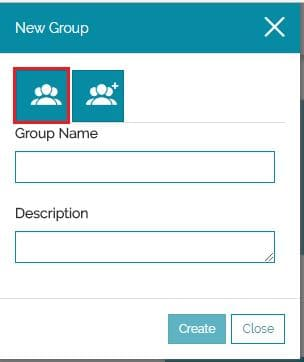
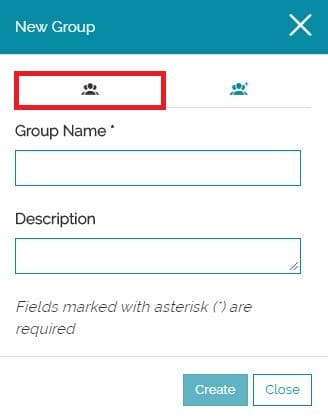
4643 groups managing

Changed region(s): [[0.0, 0.0, 1.0, 1.0], [0.6809, 0.1823, 0.7697, 0.2431]]

diff --git a/docs/user-guide/managing-groups.md b/docs/user-guide/managing-groups.md
@@ -1,22 +1,45 @@
 # Managing Groups
 *****************
 
-Creating New Group
-------------------
+The Groups Manager section displays like the following:
 
-From the *Groups* page:
+<img src="../img/managing-groups/groups-man.jpg" class="ms-docimage"  style="max-width:500px;"/>
 
-* **Click** on the *New Group* icon <img src="../img/managing-groups/new-group.jpg" class="ms-docbutton"  style="max-height:20px;"/>. A pop up form will open
+Similar to what happens for users manager, in this page the *Admin* can:
 
-**Fill** the first page of the form by assigning a *Group Name* and a *Description*.
+* Perform a search among the existing groups
 
-<img src="../img/managing-groups/popup-group.jpg" class="ms-docimage"  style="max-width:500px;"/>
+<img src="../img/managing-groups/search-groups.jpg" class="ms-docimage" style="max-width:500px;"/>
 
-* On the second page, you can add members to the group. **Type** the user name under *Add Member* to find it then **Click** on it to add it to the list.
+* Create a new group with the **New Group** button <img src="../img/button/new-group.jpg" class="ms-docbutton"/>
 
-<img src="../img/managing-groups/add-user.jpg" class="ms-docimage"/>
+* Edit or remove an existing one, through the **Edit group** <img src="../img/button/edit-icon.jpg" class="ms-docbutton"/> and **Delete group** <img src="../img/button/delete-icon.jpg" class="ms-docbutton" /> buttons on each user card:
 
-Edit a Group
-------------
+<img src="../img/managing-groups/edit-group.jpg" class="ms-docimage"/>
 
-As for users, you can use the edit icon <img src="../img/button/edit-icon.jpg" class="ms-docbutton"/> to modify the group settings or the delete icon <img src="../img/button/delete-icon.jpg" class="ms-docbutton"/> to delete the group.
+Both the **New Group** <img src="../img/button/new-group.jpg" class="ms-docbutton"/> and the **Edit group** <img src="../img/button/edit-icon.jpg" class="ms-docbutton"/> buttons, open the *Group editor* window, composed of two sections:
+
+* *Group ID*
+
+* *Members manager*
+
+## Group ID
+
+As soon as the *New Group* window opens, the *Group ID* section is displayed:
+
+<img src="../img/managing-groups/popup-group.jpg" class="ms-docimage"/>
+
+In this section the Amin is allowed to:
+
+* Set the Group Name
+
+* Set the Description
+
+!!! warning
+    The Group Name is the only mandatory field.
+
+## Members manager
+
+Through the *Members manager* section it is possible to choose which users are part of the group:
+
+<img src="../img/managing-groups/sel-users.gif" class="ms-docimage"/>

diff --git a/docs/user-guide/managing-users.md b/docs/user-guide/managing-users.md
@@ -11,13 +11,13 @@ In this page the *Admin* can:
 
 <img src="../img/managing-users/search-users.jpg" class="ms-docimage" style="max-width:500px;"/>
 
-* Create a new user with the *New User* button <img src="../img/button/new-user.jpg" class="ms-docbutton"/>
+* Create a new user with the **New User** button <img src="../img/button/new-user.jpg" class="ms-docbutton"/>
 
-* Edit or remove an existing one, through the *Edit user* <img src="../img/button/edit-icon.jpg" class="ms-docbutton"/> and *Remove* <img src="../img/button/delete-icon.jpg" class="ms-docbutton" /> buttons on each user card:
+* Edit or remove an existing one, through the **Edit user** <img src="../img/button/edit-icon.jpg" class="ms-docbutton"/> and **Delete user** <img src="../img/button/delete-icon.jpg" class="ms-docbutton" /> buttons on each user card:
 
 <img src="../img/managing-users/edit-user.jpg" class="ms-docimage"/>
 
-Both the *New User* <img src="../img/button/new-user.jpg" class="ms-docbutton"/> and the *Edit user* <img src="../img/button/edit-icon.jpg" class="ms-docbutton"/> buttons, open the *User editor* window, composed of three sections:
+Both the **New User** <img src="../img/button/new-user.jpg" class="ms-docbutton"/> and the **Edit user** <img src="../img/button/edit-icon.jpg" class="ms-docbutton"/> buttons, open the *User editor* window, composed of three sections:
 
 * *User ID*
 

diff --git a/docs/user-guide/managing-users-and-groups.md b/docs/user-guide/managing-users-and-groups.md
@@ -5,11 +5,11 @@ User and group management is only possible for administrator users:
 
 <img src="../img/managing-users-and-groups/account.jpg" class="ms-docimage" style="max-width:600px"/>
 
-Once logged ad Admin, the *Manage Accounts* button appears in [Homepage](home-page.md):
+Once logged ad Admin, the **Manage Accounts** button appears in [Homepage](home-page.md):
 
 <img src="../img/managing-users-and-groups/manager.jpg" class="ms-docimage"/>
 
-With a click on the *Manage Accounts* button, the *Account Manager* opens:
+With a click on the **Manage Accounts** button, the *Account Manager* opens:
 
 <img src="../img/managing-users-and-groups/manager-page.jpg" class="ms-docimage"/>
 
